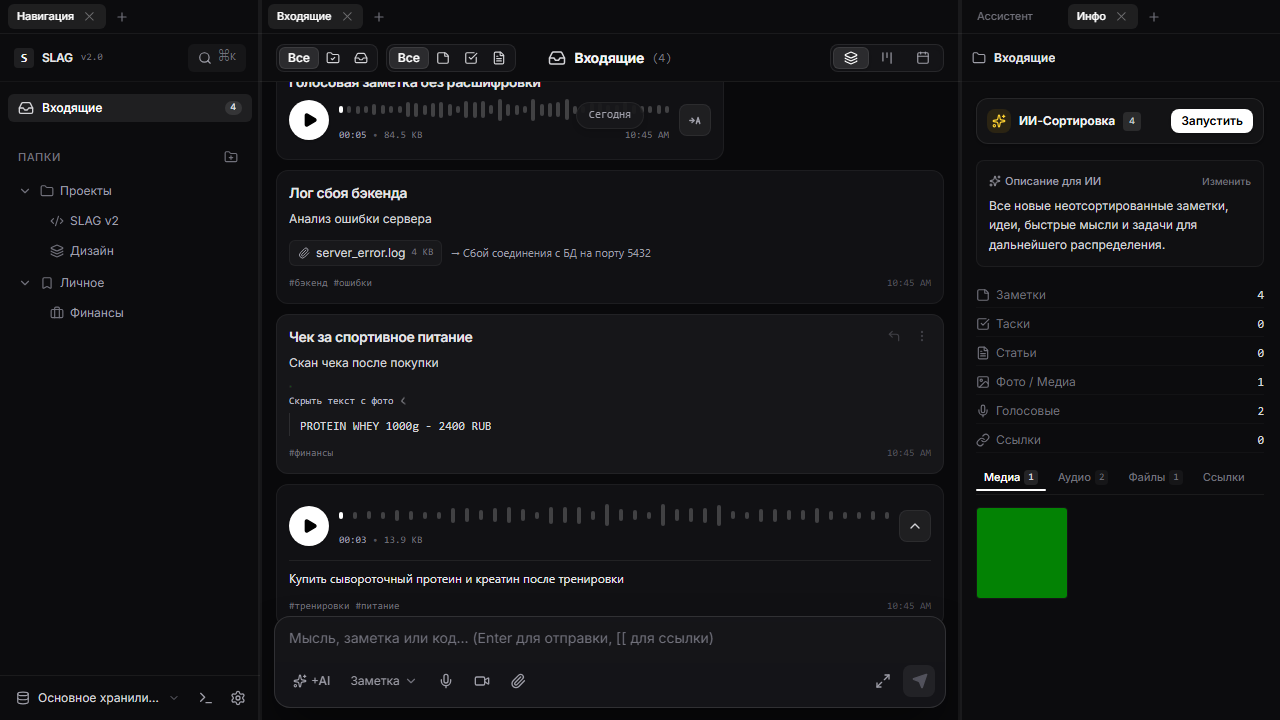
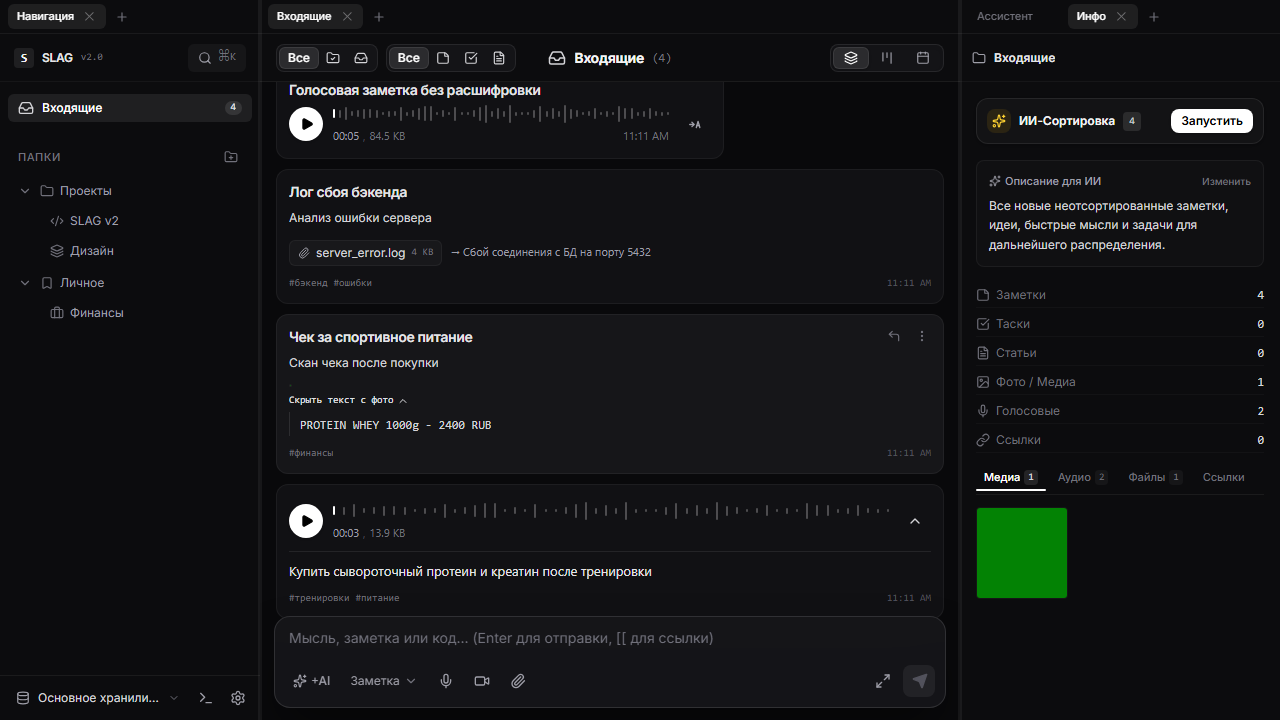
style(audio): refine audio player waveform density and seamless telegram transcribe button

diff --git a/src/components/UI/AudioPlayer.tsx b/src/components/UI/AudioPlayer.tsx
@@ -154,7 +154,7 @@ export const AudioPlayer: React.FC<AudioPlayerProps> = ({
     window.addEventListener('mouseup', onMouseUp);
   };
 
-  const barsCount = compact ? 22 : 40;
+  const barsCount = compact ? 26 : 56;
 
   // Generate or sample waveform bars
   const bars = React.useMemo(() => {
@@ -165,7 +165,7 @@ export const AudioPlayer: React.FC<AudioPlayerProps> = ({
       for (let i = 0; i < barsCount; i++) {
         const idx = Math.min(customWaveform.length - 1, Math.floor(i * step));
         const val = customWaveform[idx] ?? 0.3;
-        sampled.push(Math.max(0.15, Math.min(1, val)));
+        sampled.push(Math.max(0.08, Math.min(1, val)));
       }
       return sampled;
     }
@@ -174,10 +174,10 @@ export const AudioPlayer: React.FC<AudioPlayerProps> = ({
     const generated: number[] = [];
     for (let i = 0; i < barsCount; i++) {
       const t = i / barsCount;
-      const envelope = Math.sin(t * Math.PI); // tapering edges
-      const noise = Math.sin(i * 1.7) * 0.35 + Math.cos(i * 3.3) * 0.25 + Math.sin(i * 0.8) * 0.2;
-      const val = Math.max(0.12, (0.45 + noise) * envelope + 0.12);
-      generated.push(Math.min(1, Math.max(0.15, val)));
+      const envelope = Math.sin(t * Math.PI) * 0.4 + 0.6;
+      const speechBurst = Math.sin(i * 1.35) * 0.35 + Math.cos(i * 2.8) * 0.3 + Math.sin(i * 0.55) * 0.25;
+      const raw = Math.max(0, (0.42 + speechBurst) * envelope);
+      generated.push(Math.min(1, Math.max(0.06, raw)));
     }
     return generated;
   }, [customWaveform, barsCount]);
@@ -207,7 +207,7 @@ export const AudioPlayer: React.FC<AudioPlayerProps> = ({
           {bars.map((norm, i) => {
             const barFraction = (i / barsCount) * 100;
             const isFilled = barFraction <= progressPercent;
-            const height = Math.round(4 + norm * 11);
+            const height = Math.round(2 + norm * 12);
             return (
               <div
                 key={i}
@@ -220,7 +220,7 @@ export const AudioPlayer: React.FC<AudioPlayerProps> = ({
           })}
         </div>
 
-        <span className="text-[10px] font-mono text-zinc-400 shrink-0">
+        <span className="text-[11px] font-sans tabular-nums text-zinc-400 shrink-0">
           {isPlaying ? formatTime(currentTime) : formatTime(currentDur)}
         </span>
       </div>
@@ -231,42 +231,42 @@ export const AudioPlayer: React.FC<AudioPlayerProps> = ({
 
   return (
     <div className="w-full flex flex-col">
-      <div className="flex items-center gap-2.5 py-1 w-full select-none">
+      <div className="flex items-center gap-2.5 py-0.5 w-full select-none">
         <audio ref={audioRef} src={src} preload="metadata" />
 
-        {/* Linear Monochrome Play/Pause round button */}
+        {/* Telegram-proportional Play/Pause round button */}
         <button
           type="button"
           onClick={togglePlay}
-          className="w-9 h-9 sm:w-10 sm:h-10 rounded-full bg-white hover:bg-zinc-200 active:scale-95 flex items-center justify-center text-black transition-all shrink-0 shadow-sm cursor-pointer"
+          className="w-8 h-8 sm:w-[34px] sm:h-[34px] rounded-full bg-white hover:bg-zinc-200 active:scale-95 flex items-center justify-center text-black transition-all shrink-0 shadow-sm cursor-pointer"
           title={isPlaying ? 'Пауза' : 'Воспроизвести'}
           aria-label={isPlaying ? 'Пауза' : 'Воспроизвести'}
         >
           {isPlaying ? (
-            <Pause className="w-4 h-4 fill-current" />
+            <Pause className="w-3.5 h-3.5 fill-current" />
           ) : (
-            <Play className="w-4 h-4 fill-current ml-0.5" />
+            <Play className="w-3.5 h-3.5 fill-current ml-0.5" />
           )}
         </button>
 
         {/* Waveform and Time metadata */}
-        <div className="flex-1 flex flex-col justify-center gap-1.5 min-w-0">
+        <div className="flex-1 flex flex-col justify-center gap-1 min-w-0">
           <div
             ref={waveTrackRef}
             onMouseDown={handleMouseDown}
-            className="flex items-center justify-between gap-[2px] h-6 cursor-pointer select-none py-1 w-full"
+            className="flex items-center justify-between gap-[1.5px] h-5 cursor-pointer select-none py-0.5 w-full"
             title="Перемотка"
           >
             {bars.map((norm, i) => {
               const barFraction = (i / barsCount) * 100;
               const isFilled = barFraction <= progressPercent;
-              const height = Math.round(4 + norm * 18);
+              const height = Math.round(2 + norm * 16);
               return (
                 <div
                   key={i}
                   style={{ height: `${height}px` }}
-                  className={`flex-1 min-w-[2px] max-w-[4px] rounded-full transition-colors ${
-                    isFilled ? 'bg-white' : 'bg-white/20 hover:bg-white/30'
+                  className={`w-[2px] rounded-full transition-colors ${
+                    isFilled ? 'bg-white' : 'bg-white/25 hover:bg-white/40'
                   }`}
                 />
               );
@@ -274,32 +274,32 @@ export const AudioPlayer: React.FC<AudioPlayerProps> = ({
           </div>
 
           {/* Subtitle with details: 00:08, 30.2 KB, timestamp */}
-          <div className="flex justify-between items-center text-[10px] font-mono text-zinc-400">
-            <div className="flex items-center gap-1.5 truncate">
+          <div className="flex justify-between items-center text-[11px] font-sans tabular-nums text-zinc-400">
+            <div className="flex items-center gap-1 truncate">
               <span>{isPlaying ? formatTime(currentTime) : formatTime(currentDur)}</span>
               {formattedSize && (
                 <>
-                  <span className="text-zinc-600">•</span>
+                  <span className="text-zinc-600 font-normal">,</span>
                   <span className="text-zinc-500">{formattedSize}</span>
                 </>
               )}
             </div>
 
             {timeContext && (
-              <span className="text-zinc-500 text-[10px] font-mono ml-auto shrink-0 select-none">
+              <span className="text-zinc-500 text-[11px] font-sans ml-auto shrink-0 select-none">
                 {timeContext}
               </span>
             )}
           </div>
         </div>
 
-        {/* Telegram-style Transcription Button (->A / Loader / Chevron) */}
+        {/* Telegram-style Transcription Button (Seamless ->A / Loader / Chevron) */}
         {(onEnrich || transcript || enrichmentStatus === 'processing') && (
           <button
             type="button"
             onClick={handleTranscriptToggle}
             disabled={enrichmentStatus === 'processing'}
-            className="w-7 h-7 sm:w-8 sm:h-8 rounded-lg bg-white/[0.06] hover:bg-white/[0.12] active:scale-95 text-zinc-300 hover:text-white transition-all flex items-center justify-center shrink-0 cursor-pointer border border-white/[0.06] disabled:opacity-50 disabled:pointer-events-none"
+            className="w-7 h-7 sm:w-8 sm:h-8 rounded-lg text-zinc-400 hover:text-white hover:bg-white/[0.08] active:scale-95 transition-all flex items-center justify-center shrink-0 cursor-pointer disabled:opacity-50 disabled:pointer-events-none"
             title={
               enrichmentStatus === 'processing'
                 ? 'Идет расшифровка...'
@@ -316,15 +316,15 @@ export const AudioPlayer: React.FC<AudioPlayerProps> = ({
             ) : transcript && isExpanded ? (
               <ChevronUp className="w-4 h-4 text-zinc-300" />
             ) : (
-              <TelegramTranscribeIcon className="w-3.5 h-3.5 text-zinc-400" />
+              <TelegramTranscribeIcon className="w-3.5 h-3.5 text-zinc-400 hover:text-zinc-200" />
             )}
           </button>
         )}
       </div>
 
-      {/* Telegram-style Transcript (Clean text, no headers, directly under player) */}
+      {/* Telegram-style Transcript with user-approved divider line */}
       {isExpanded && transcript && (
-        <div className="mt-2 pt-2 border-t border-white/[0.07] text-xs text-zinc-200 font-sans leading-relaxed select-text flex flex-col animate-in fade-in duration-150">
+        <div className="mt-2 pt-2 border-t border-white/[0.08] text-xs sm:text-[13px] text-zinc-200 font-sans leading-relaxed select-text flex flex-col animate-in fade-in duration-150">
           <p className="whitespace-pre-wrap">{transcript}</p>
         </div>
       )}

diff --git a/src/components/Feed/FeedList.tsx b/src/components/Feed/FeedList.tsx
@@ -153,9 +153,9 @@ export const FeedList: React.FC = () => {
       ) : (
         grouped.map(group => (
           <div key={group.dateLabel} className="flex flex-col gap-3">
-            {/* Telegram-style date sticky bubble */}
-            <div className="flex justify-center sticky top-0 z-10 py-1 pointer-events-none">
-              <span className="px-3 py-1 rounded-full bg-[#18181b]/90 border border-white/[0.06] text-[11px] font-mono text-zinc-400 shadow-md">
+            {/* Telegram-style date bubble */}
+            <div className="flex justify-center py-1 select-none">
+              <span className="px-3 py-0.5 rounded-full bg-[#18181b] border border-white/[0.06] text-[11px] text-zinc-400 shadow-sm">
                 {group.dateLabel}
               </span>
             </div>
